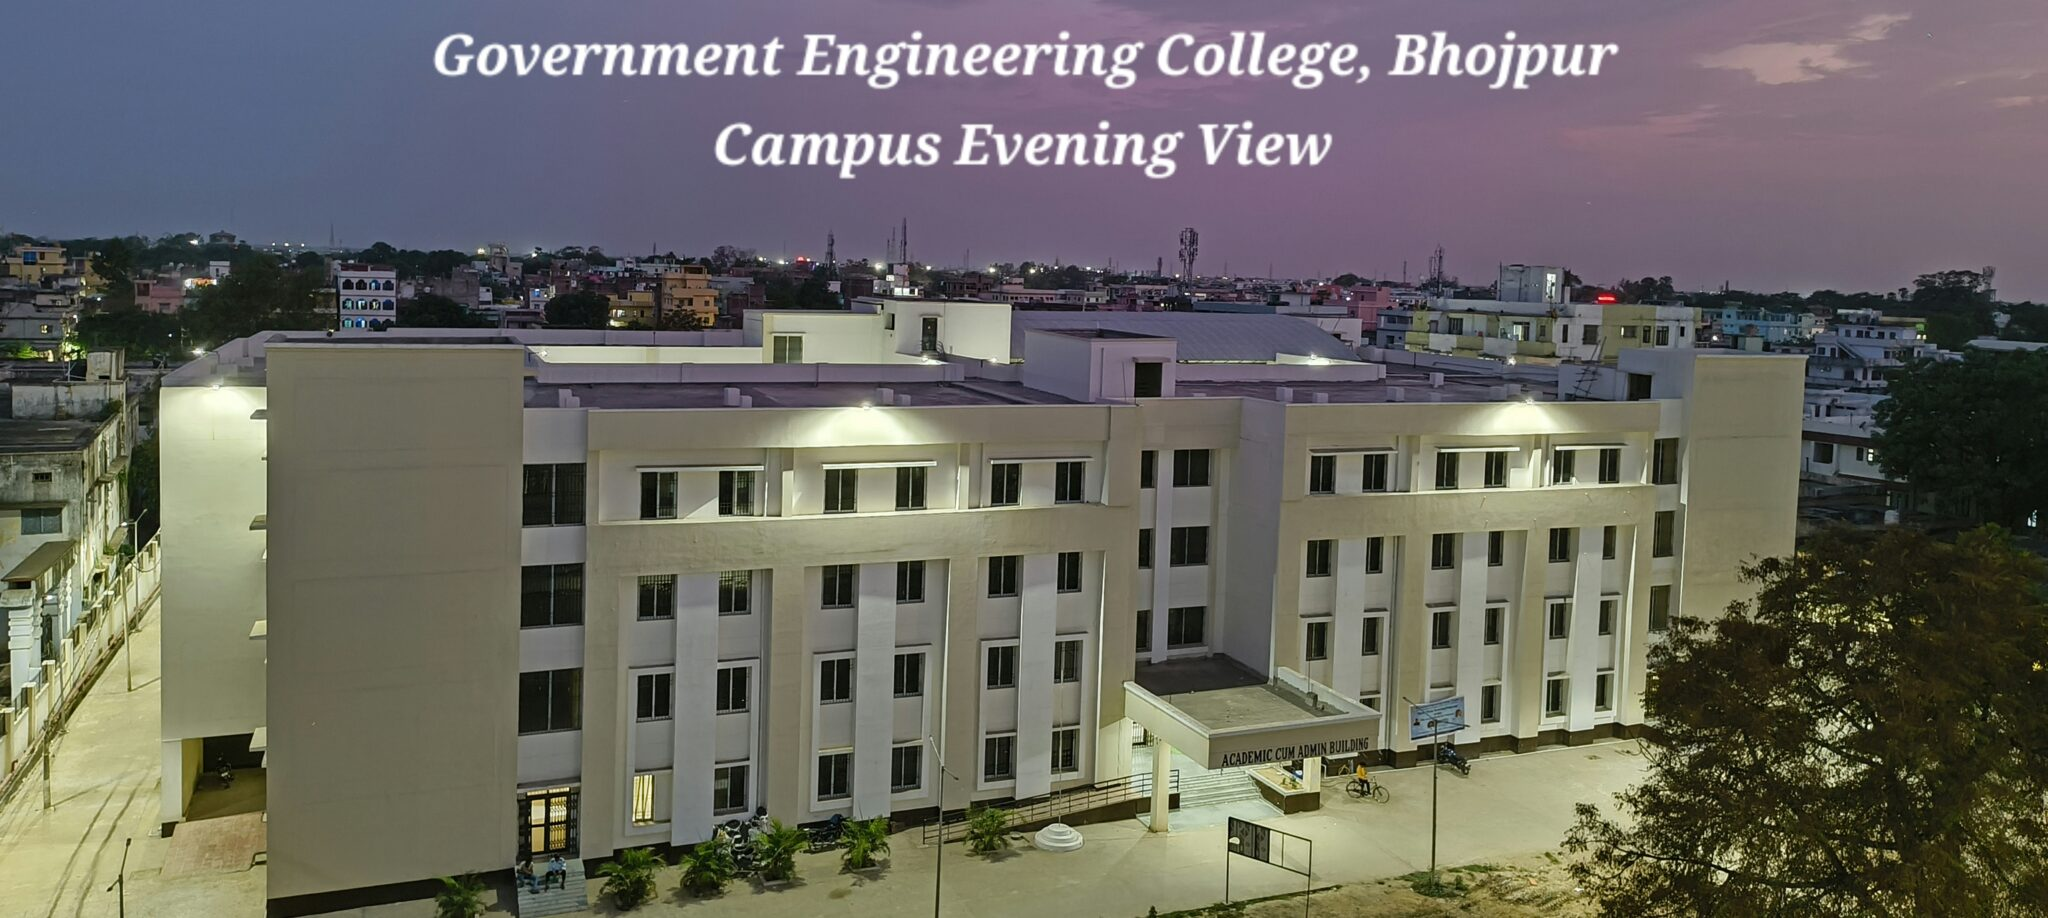
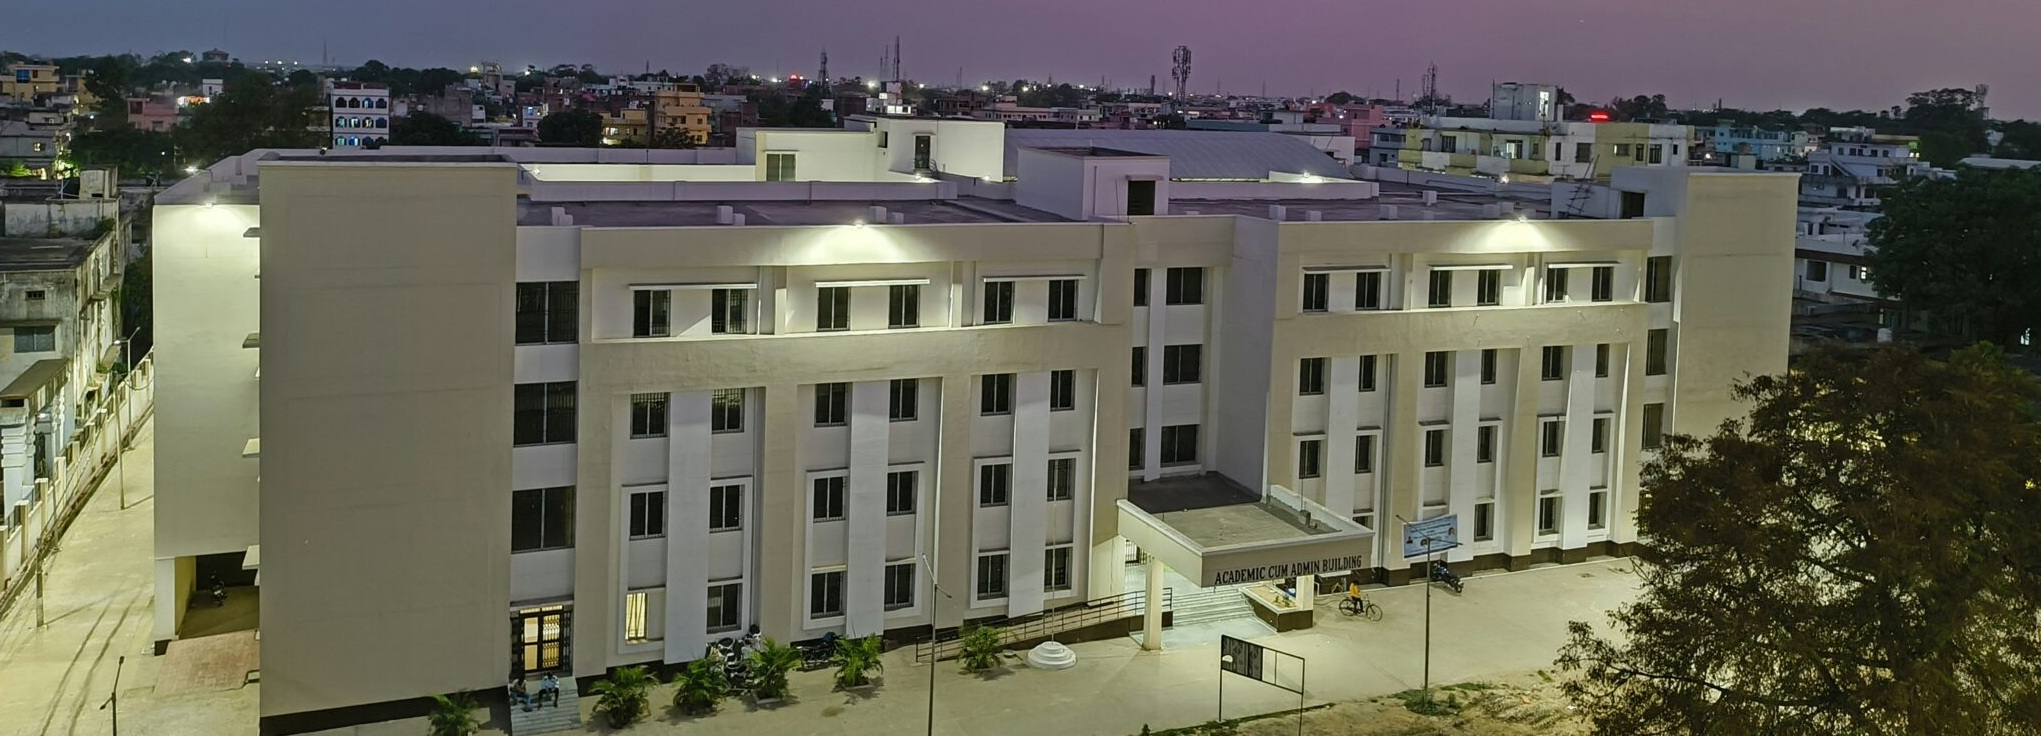
....

diff --git a/index.html b/index.html
@@ -5,6 +5,7 @@
   <meta charset="UTF-8" />
   <meta name="viewport" content="width=device-width, initial-scale=1.0" />
   <title>Gec Bhojpur</title>
+   <link rel="icon" type="image/x-icon" href="./images/logo.png">
   <link rel="stylesheet" href="style.css" />
 </head>
 
@@ -24,24 +25,27 @@
 
   <div class="nav-bar-2">
     <ul>
-      <li>About us</li>
-      <li>Administration</li>
-      <li>Academics</li>
-      <li>Department</li>
-      <li>Facilites & Services</li>
-      <li><a href="https://www.gecbhojpur.org/training-and-placement/about-placement/" >Traning & Placement</a></li>
-      <li>Gallery</li>
+      <li><a href="#">'About Us</a></li>
+      <li><a href="#">Administration</a></li>
+      <li><a href="#">Academics</a></li>
+      <li><a href="#">Department</a></li>
+      <li><a href="#">Facilities & Services</a></li>
+      <li><a href="https://www.gecbhojpur.org/training-and-placement/about-placement/">Training & Placement</a></li>
+      <li><a href="#">Gallery</a></li>
       <li><a href="https://www.gecbhojpur.org/about-us/contact/">Contact Us</a></li>
       <li><a href="https://www.gecbhojpur.org/student-panel/login/">Login</a></li>
     </ul>
   </div>
-  <div class="hero">
-    <div class="background"></div>
-    <div class="heading">
+  <div class="heading">
       <marquee behavior="scroll" direction="left" scrollamount="15"><span>
           Welcome to Government Engineering College, Bhojpur!
         </span></marquee>
-      <p>The Government Engineering College (GEC) Bhojpur, is a government engineering college established in 2019 by
+        </div>
+  <div class="hero">
+    <div class="background"></div>
+    <div class="about-us">
+      <h1>About Us</h1>
+       <p>The Government Engineering College (GEC) Bhojpur, is a government engineering college established in 2019 by
         the Bihar Government under the Department of Science and Technology (presently known as the Department of
         Science, Technology, and Technical Education) situated in heart of the city Arrah, Bhojpur, near the renowned
         Maharaja College, South-East Ramna Maidan, the college was inaugurated by the Honorable Chief Minister of Bihar,
@@ -49,8 +53,9 @@
         successfully running in its permanent campus from October’23. The primary objective behind its establishment is
         to address the growing technical demands in society.
       </p>
-
     </div>
+    </div>
+     
     <div class="features">
       <h1>
         Our Features
@@ -58,11 +63,11 @@
     </div>
     <div class="basic-features">
       <div class="feature-option">
-        <h3>Morden Infrastrcture</h3>
+        <h3>Modern Infrastructure</h3>
         <p>State-of-the-art labs, digital classrooms, and a well-equipped campus designed for holistic learning.</p>
       </div>
       <div class="feature-option">
-        <h3>Expert Facality</h3>
+        <h3>Expert Faculty</h3>
         <p>Highly experienced and qualified faculty members dedicated to student development and academic excellence.
         </p>
       </div>
@@ -71,7 +76,7 @@
         <p>Dedicated training and placement cell to guide students towards top companies and career opportunities.</p>
       </div>
       <div class="feature-option">
-        <h3>Research Opportunties</h3>
+        <h3>Research Opportunities</h3>
         <p>Encouraging innovation and research through student projects, workshops, and mentorship programs.</p>
       </div>
     </div>
@@ -96,7 +101,7 @@
     </section>
     <footer>
     <div class="container">
-      <p>&copy; 2025 My College Department. All rights reserved.</p>
+      <p> &copy 2025 My College Department. All rights reserved.</p>
     </div>
   </footer>
 

diff --git a/style.css b/style.css
@@ -1,8 +1,8 @@
 * {
     margin: 0;
     padding: 0;
-    font-family: 'Lucida Sans', 'Lucida Sans Regular', 'Lucida Grande', 'Lucida Sans Unicode', Geneva, Verdana, sans-serif;
     text-align: center;
+    text-transform: capitalize;
 }
 
 .nav-bar {
@@ -94,25 +94,28 @@
     text-decoration: underline;
 }
 
-
-
-
 /*hero section*/
 
 .background {
     background-image: url("./images/background.jpg");
-    height: 65vh;
-    background-size: cover;
-    background-position: center;
+    height: 80vh;
+    background-size:cover;
+    background-position: top-center;
+    background-repeat: no-repeat;
 }
-
-.heading {
-    height: 60vh;
+ .heading{
+    height: 3.5rem;
     background-color: #003366;
     color: #ffffff;
 }
 
-.heading p {
+.about-us {
+    padding: 2rem;
+     background-color: #003366;
+    color: #ffffff;
+}
+.about-us p {
+    padding-top: 2rem;
     color:#f0f8ff;
 }
 
@@ -143,16 +146,9 @@
     padding: 2rem;
     background-color: white;
     color: #1E3A8A;
-    height: 20vh;
 }
 
-/*Card background: #e6f0ff (light blue)
 
-Border: #99c2ff
-
-Heading Text: #003366 (Dark Blue)
-
-Body Text: #333333*/
 
 .feature-option {
     padding: 1rem;
@@ -183,18 +179,10 @@ Body Text: #333333*/
     transform: translateY(-5px);
 }
 
-.location {
-    display: flex;
-    flex-direction: column;
-    justify-content: center;
-    align-items: center;
-    padding: 2rem;
-    background-color: white;
-    color: #1E3A8A;
-}
+
 
 .location {
-  background-color: white;
+  background-color: #f0f4ff;
   padding: 60px 20px;
   text-align: center;
 }
